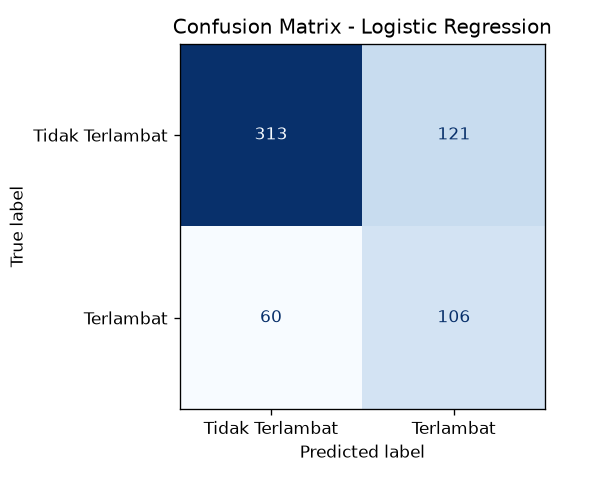
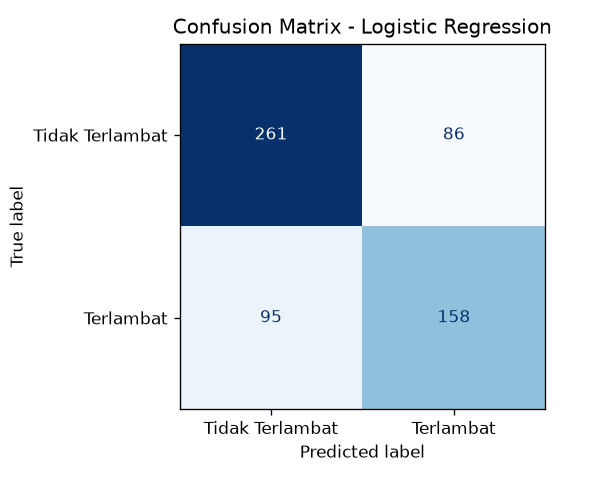
update dataset generator & retrain with new config

Changed region(s): [[0.6, 0.0938, 0.93, 0.875], [0.42, 0.625, 0.48, 0.6875], [0.42, 0.25, 0.48, 0.3125]]

diff --git a/generate_dataset.py b/generate_dataset.py
@@ -39,7 +39,7 @@ def _sigmoid(x: np.ndarray) -> np.ndarray:
     return 1.0 / (1.0 + np.exp(-x))
 
 
-def generate_dataset(n_rows: int = 3000, seed: int = 42) -> "pd.DataFrame":
+def generate_dataset(n_rows: int = 3000, seed: int = 12345) -> "pd.DataFrame":
     rng = np.random.default_rng(seed)
     n = int(n_rows)
 
@@ -92,21 +92,20 @@ def generate_dataset(n_rows: int = 3000, seed: int = 42) -> "pd.DataFrame":
     # Hubungan target dengan fitur (probabilistik, bukan deterministik).
     amount_tens_juta = invoice_amount / 1_000_000
     logit = (
-        -2.60
-        + 1.60 * previous_late_payment
-        + 0.035 * np.clip(customer_avg_payment_delay, 0, 60)
-        + 0.55 * (payment_method == "Installment")
-        + 0.30 * (customer_type == "Government")
-        + 0.20 * (payment_method == "Bank Transfer")
-        - 0.45 * (product_category == "Groceries")
-        - 0.30 * (customer_type == "Retail")
-        - 0.004 * discount
-        - 0.035 * np.clip(invoice_amount / 1_000_000, 0, None)
-        + 0.18 * np.log1p(customer_transaction_count)
-        + 0.25 * previous_late_payment * np.clip(invoice_amount / 1_000_000, 0, None)
-        - 0.04 * (payment_method == "Credit Card") * 10
+        -1.9
+        + 1.75 * previous_late_payment
+        + 0.04 * np.clip(customer_avg_payment_delay, 0, 60)
+        + 0.65 * (payment_method == "Installment")
+        + 0.4 * (customer_type == "Government")
+        + 0.25 * (payment_method == "Bank Transfer")
+        - 0.55 * (product_category == "Groceries")
+        - 0.35 * (customer_type == "Retail")
+        - 0.005 * discount
+        - 0.045 * np.clip(invoice_amount / 1_000_000, 0, None)
+        + 0.22 * np.log1p(customer_transaction_count)
+        + 0.15 * previous_late_payment * np.clip(invoice_amount / 1_000_000, 0, None)
     )
-    logit = logit + rng.normal(0, 0.9, size=len(logit))
+    logit = logit + rng.normal(0, 0.75, size=len(logit))
     prob = 1.0 / (1.0 + np.exp(-logit))
     prob = np.clip(prob, 0.01, 0.99)
     late_payment = (rng.random(n) < prob).astype(int)
@@ -134,7 +133,7 @@ def generate_dataset(n_rows: int = 3000, seed: int = 42) -> "pd.DataFrame":
 def main() -> None:
     parser = argparse.ArgumentParser(description="Generator dataset sintetis keterlambatan pembayaran.")
     parser.add_argument("--rows", type=int, default=3000, help="Jumlah baris (default 3000)")
-    parser.add_argument("--seed", type=int, default=42, help="Random seed (default 42)")
+    parser.add_argument("--seed", type=int, default=12345, help="Random seed (default 12345)")
     parser.add_argument(
         "--output",
         type=str,

diff --git a/train.py b/train.py
@@ -39,7 +39,7 @@ DATASET_PATH = BASE_DIR / "dataset" / "transactions.csv"
 MODELS_DIR = BASE_DIR / "models"
 RESULTS_DIR = BASE_DIR / "results"
 
-RANDOM_STATE = 42
+RANDOM_STATE = 12345
 
 
 def main() -> None:

diff --git a/src/train_model.py b/src/train_model.py
@@ -28,7 +28,7 @@ from sklearn.tree import DecisionTreeClassifier
 
 from src.preprocessing import build_pipeline
 
-RANDOM_STATE = 42
+RANDOM_STATE = 12345
 
 
 def get_candidate_models() -> dict[str, Any]:
